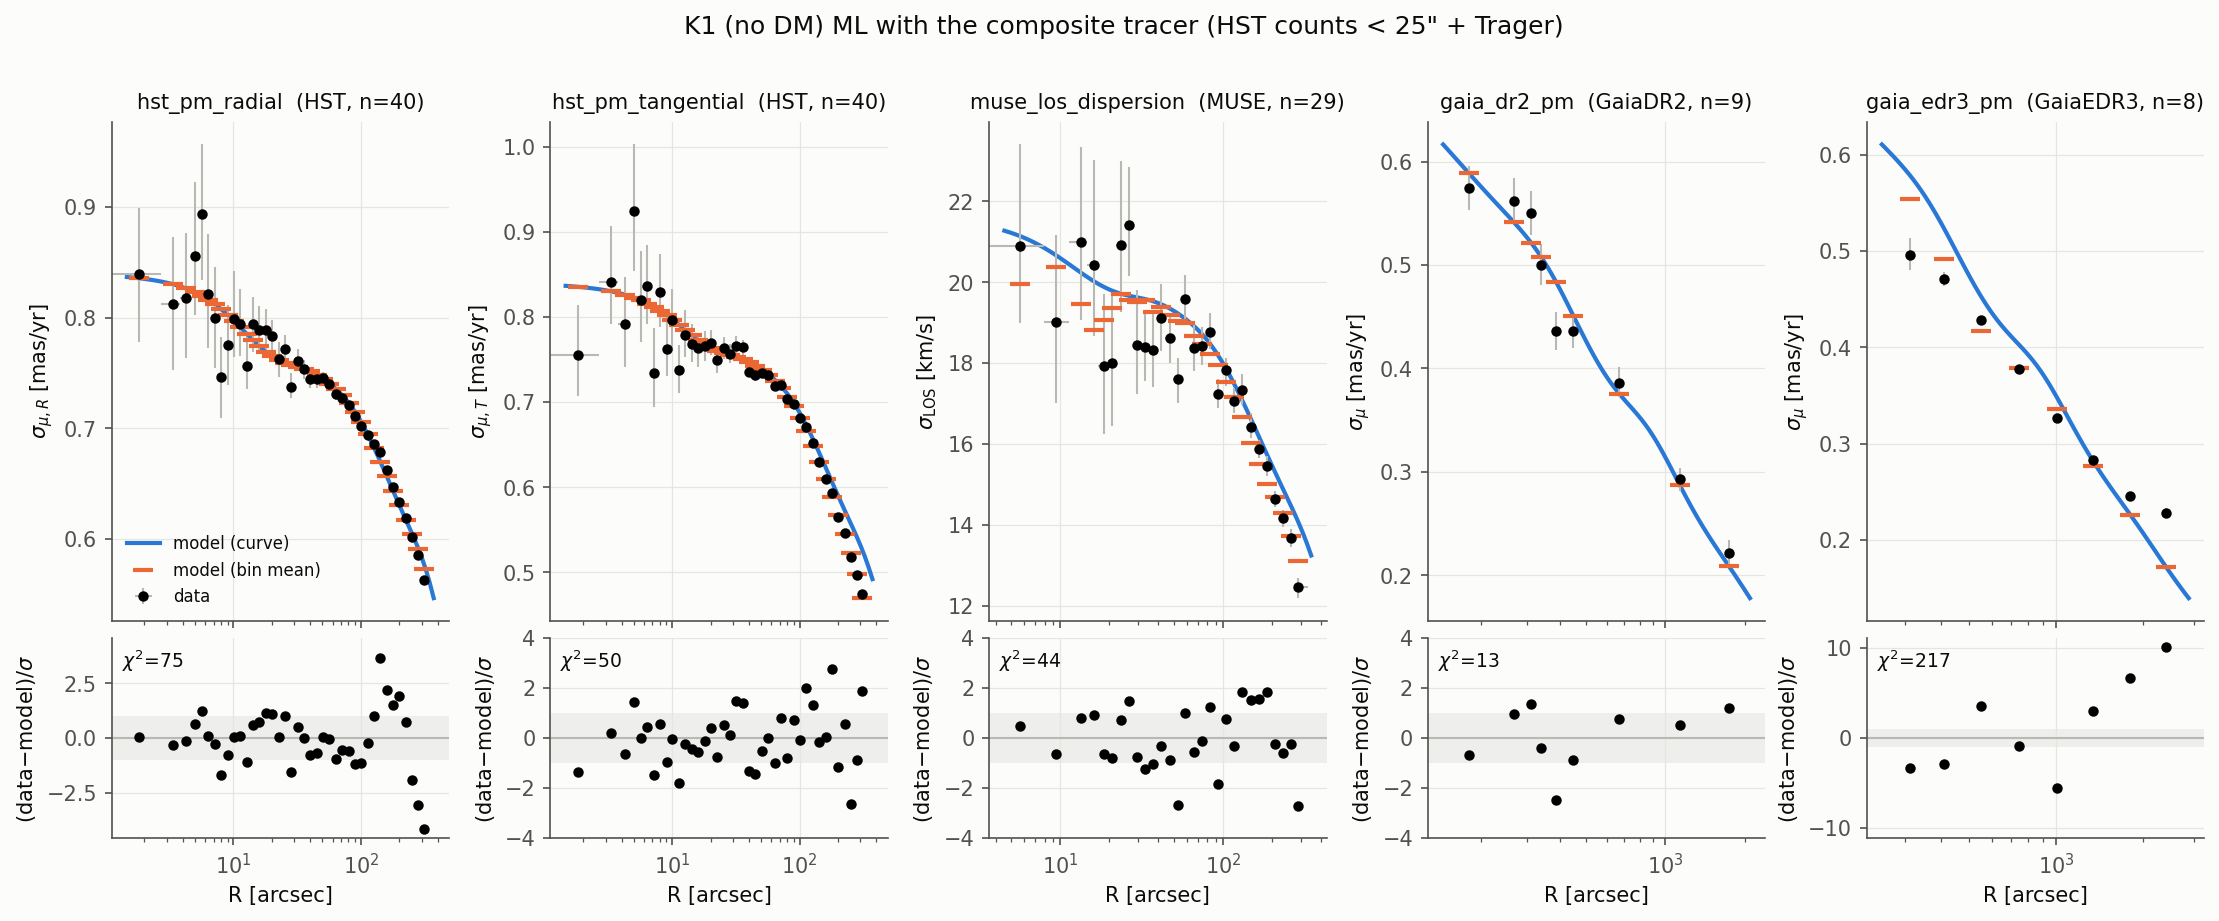
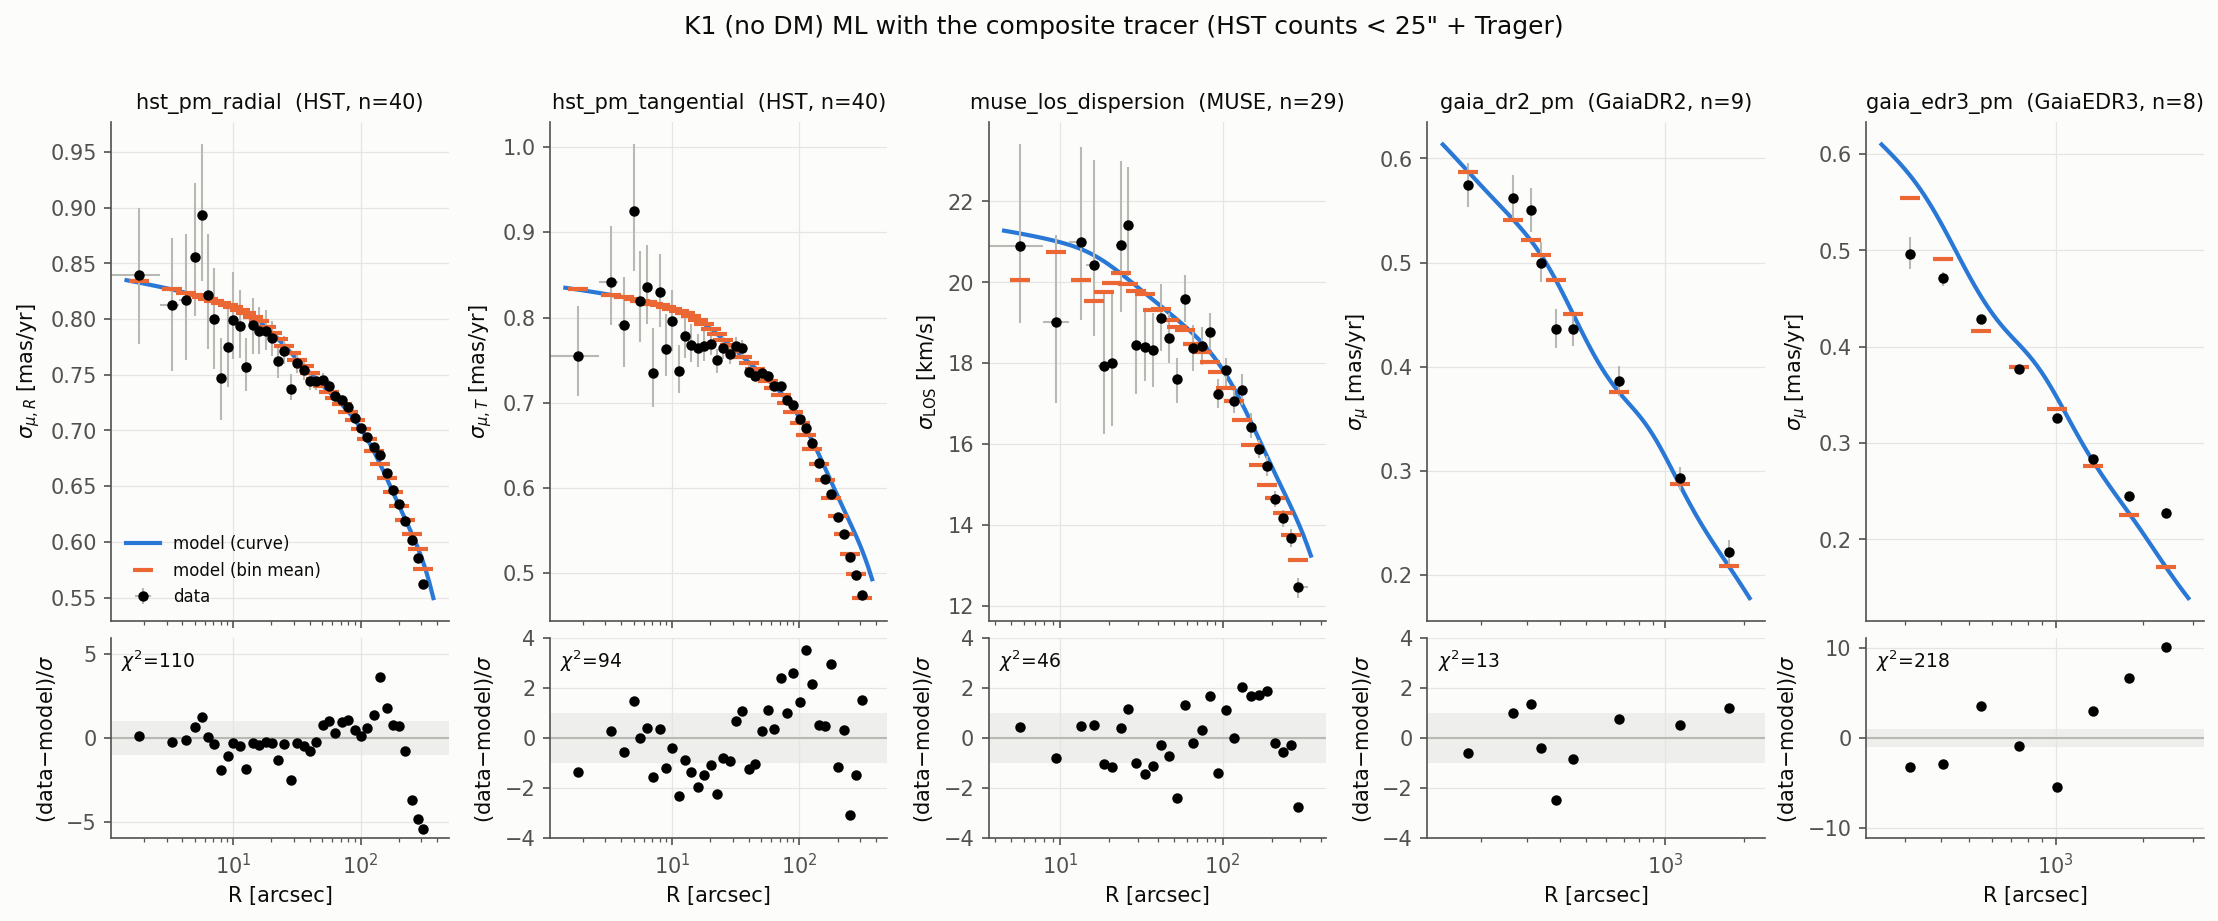
Fix composite splice anchoring (ignore low-weight outer points); regression tests; journal correction

diff --git a/tests/test_light_model.py b/tests/test_light_model.py
@@ -136,10 +136,17 @@ def test_composite_profile_matches_zero_point_and_splices():
     # after the zero-point shift the inner points fall on the outer curve
     inner = comp.r_arcsec < 25
     expected = 15 + 2.5 * np.log10(1 + (comp.r_arcsec[inner] / 100) ** 2)
-    np.testing.assert_allclose(comp.mu[inner], expected, atol=1e-9)
+    np.testing.assert_allclose(comp.mu[inner], expected, atol=3e-3)   # limited by log-linear interpolation of the anchor
     assert not np.any((comp.r_arcsec >= 25) & np.isin(comp.r_arcsec, r_in))    # no inner points past the switch
     with pytest.raises(ValueError, match="anchor"):
         composite_profile(_fake_profile(r_out, mu_out), _fake_profile(r_in, mu_in), anchor_arcsec=(2000.0, 3000.0))
+    # low-weight outliers in the outer profile must not move the zero-point
+    mu_bad = mu_out.copy(); w_out = np.ones_like(r_out)
+    bad = (r_out > 30) & (r_out < 80) & (np.arange(len(r_out)) % 2 == 0)
+    mu_bad[bad] -= 0.8; w_out[bad] = 0.03
+    comp2 = composite_profile(_fake_profile(r_out, mu_bad, w_out), _fake_profile(r_in, mu_in), r_switch_arcsec=25.0,
+                              anchor_arcsec=(30.0, 80.0))
+    np.testing.assert_allclose(comp2.mu[comp2.r_arcsec < 25], expected, atol=3e-3)
 
 
 from ocen_dm.paths import raw_dir
@@ -155,12 +162,13 @@ def test_star_counts_below_trager_light_in_the_core():
     assert counts.r_arcsec.min() < 3.0 and counts.r_arcsec.max() > 100.0
     comp = load_tracer_profile("composite")
     trager = fit_mge_projected(load_tracer_profile("trager"), sigma_range_arcsec=(10.5, 3000.0))
-    # zero-point: make the Trager MGE match the composite at the point nearest 50 arcsec
-    j = np.argmin(np.abs(comp.r_arcsec - 50.0))
-    mu_ref = comp.mu[j] + 2.5 * np.log10(trager.surface_intensity(comp.r_arcsec[j]))[0]
-    inner = comp.r_arcsec < 20.0
+    # zero-point: weighted mean offset between the Trager MGE and the composite over 30-100"
+    anchor = (comp.r_arcsec >= 30.0) & (comp.r_arcsec <= 100.0)
+    mu_ref = np.average(comp.mu[anchor] + 2.5 * np.log10(trager.surface_intensity(comp.r_arcsec[anchor])),
+                        weights=comp.weight[anchor])
+    inner = (comp.r_arcsec > 3.0) & (comp.r_arcsec < 15.0)          # where N >= 15 per bin and the deficit lives
     deficit = comp.mu[inner] - trager.surface_brightness(comp.r_arcsec[inner], mu_ref)
-    assert 0.1 < np.median(deficit) < 0.5          # counts fainter (positive) than the light
+    assert 0.1 < np.average(deficit, weights=comp.weight[inner]) < 0.5   # counts fainter (positive) than the light
 
 
 def test_load_tracer_profile_rejects_unknown_kind():

diff --git a/src/ocen_dm/light_model.py b/src/ocen_dm/light_model.py
@@ -129,17 +129,21 @@ def star_count_profile(mag_cut: float = 19.0, r_min_arcsec: float = 1.0, r_max_a
 
 
 def composite_profile(outer: SurfaceBrightnessProfile, inner: SurfaceBrightnessProfile,
-                      r_switch_arcsec: float = 25.0, anchor_arcsec: tuple[float, float] = (30.0, 100.0)) -> SurfaceBrightnessProfile:
+                      r_switch_arcsec: float = 25.0, anchor_arcsec: tuple[float, float] = (30.0, 100.0),
+                      min_outer_weight: float = 0.5) -> SurfaceBrightnessProfile:
     """Splice a star-count profile inside ``r_switch`` onto a light profile outside.
 
     The inner profile's arbitrary zero-point is set by the weighted mean magnitude
     offset from the outer profile over ``anchor_arcsec``, where both are trusted
-    (outside the giant-dominated core, inside the field of view). Both profiles
-    must have points in the anchor range.
+    (outside the giant-dominated core, inside the field of view). Only outer
+    points with ``weight >= min_outer_weight`` enter the anchor: Trager's
+    low-weight points sit 0.5-0.9 mag off the curve and, interpolated through,
+    biased the zero-point by 0.2-0.3 mag (found 2026-09-17). Both profiles must
+    have points in the anchor range.
     """
     lo, hi = anchor_arcsec
     a_in = (inner.r_arcsec >= lo) & (inner.r_arcsec <= hi)
-    a_out = (outer.r_arcsec >= lo) & (outer.r_arcsec <= hi)
+    a_out = (outer.r_arcsec >= lo) & (outer.r_arcsec <= hi) & (outer.weight >= min_outer_weight)
     if a_in.sum() < 2 or a_out.sum() < 2:
         raise ValueError("both profiles need at least two points in the anchor range")
     # interpolate the outer profile (in mag) at the inner anchor radii

diff --git a/tests/test_cli_fit.py b/tests/test_cli_fit.py
@@ -28,7 +28,7 @@ def test_fit_cli_writes_all_products(tmp_path, monkeypatch):
     for f in ("posterior.ecsv", "summary.json", "profiles.npz", "run.yaml", "ml_x.npy"):
         assert (out / f).exists(), f
     summary = json.loads((out / "summary.json").read_text())
-    assert summary["family"] == "K1_noDM" and set(summary["parameters"]) == set(fam.names)
+    assert summary["family"] == "K1_noDM_composite" and set(summary["parameters"]) == set(fam.names)   # default tracer
     assert summary["n_points"] == 69                       # 40 + 29 bins
     prof = np.load(out / "profiles.npz")
     assert prof["M_total"].shape[1] == 60 and np.all(np.isfinite(prof["v_circ"]))

diff --git a/JOURNAL.md b/JOURNAL.md
@@ -1057,3 +1057,20 @@ above beyond 1300″).
 `ocen fit --tracer {composite,trager}` (composite is the default). Six nested runs are now
 in progress: K1/K2-cored/K2-NFW with the Trager tracer (kept as the systematics variant)
 and with the composite tracer.
+
+**Correction (same day, before any run finished):** `composite_profile` interpolated the
+Trager profile through *all* its points when setting the splice zero-point, including the
+weight-0.03 outliers that sit 0.5–0.9 mag off the curve at 42″, 67″, 93″; the offset was
+biased by ≈0.25 mag (inner counts placed too bright). Caught by the regression test
+(`test_star_counts_below_trager_light_in_the_core` measured a 0.00 mag deficit where the
+diagnostic had 0.2–0.3). Fix: only outer points with weight ≥ 0.5 enter the anchor; a
+synthetic test with planted low-weight outliers now guards it. The three composite nested
+runs were killed, their outputs deleted, and relaunched. With the corrected splice the
+composite MGE is flatter still (I(1″)/I(30″) = 1.13; smallest Gaussian 7.1″) and the K1
+Nelder–Mead maximum is lnL = 109.5 (HST radial 110/40, tangential 94/40, MUSE 46/29,
+DR2 13/9, EDR3 218/8; M• = 4e3, M_rem = 7.5e4 at 0.3 pc, D = 5.54). The mis-spliced
+profile, 0.25 mag brighter in the core, had fit better (150.7) — the ML numbers from an
+11-D Nelder–Mead differ by tens between runs, so the tracer question (which stars, how
+segregated) is deferred to the nested-sampling maxima and to a per-sample tracer profile
+(the HST PM stars are 2–3 mag fainter than the F625W < 19 count sample). Six runs in
+progress; nothing concluded yet.
